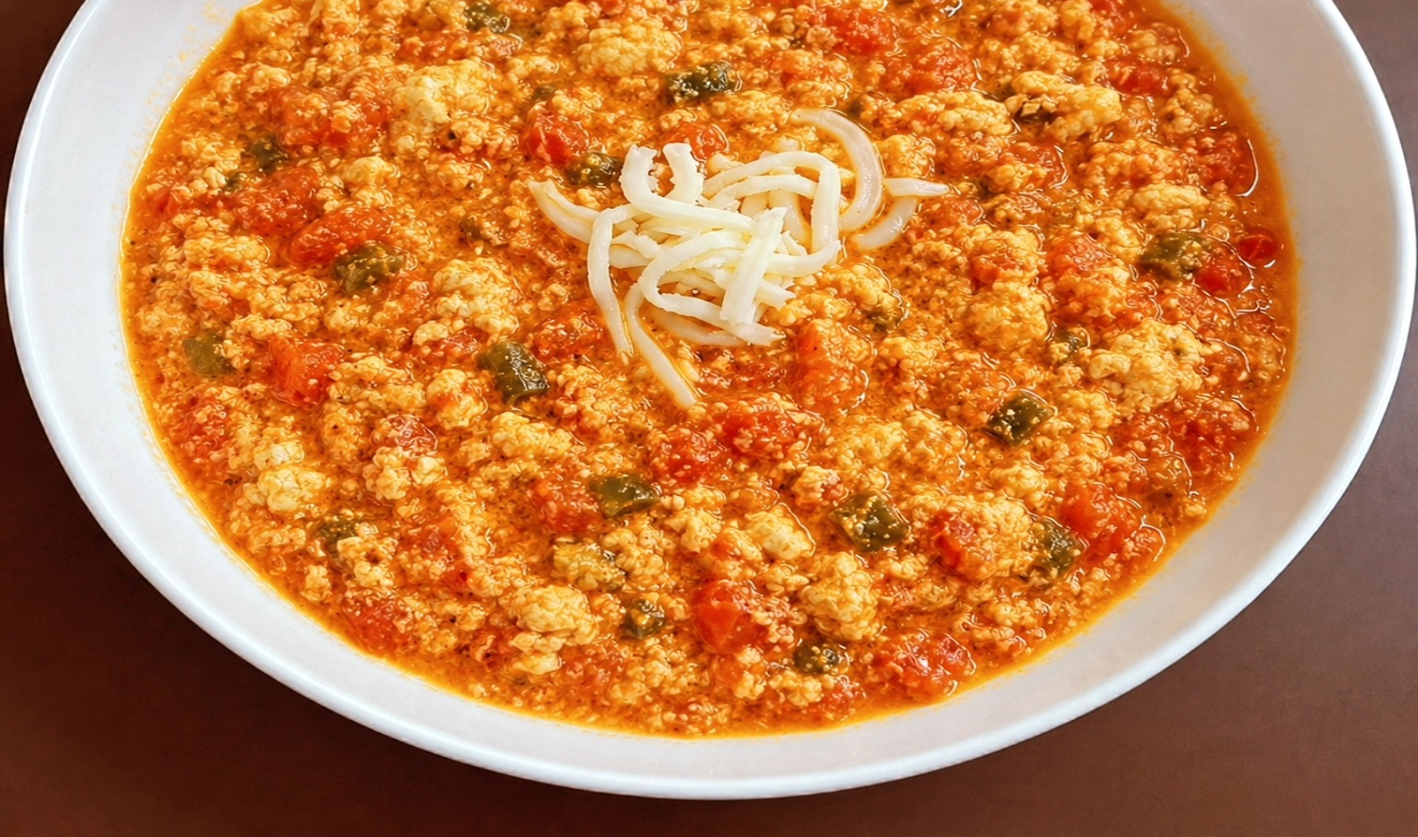
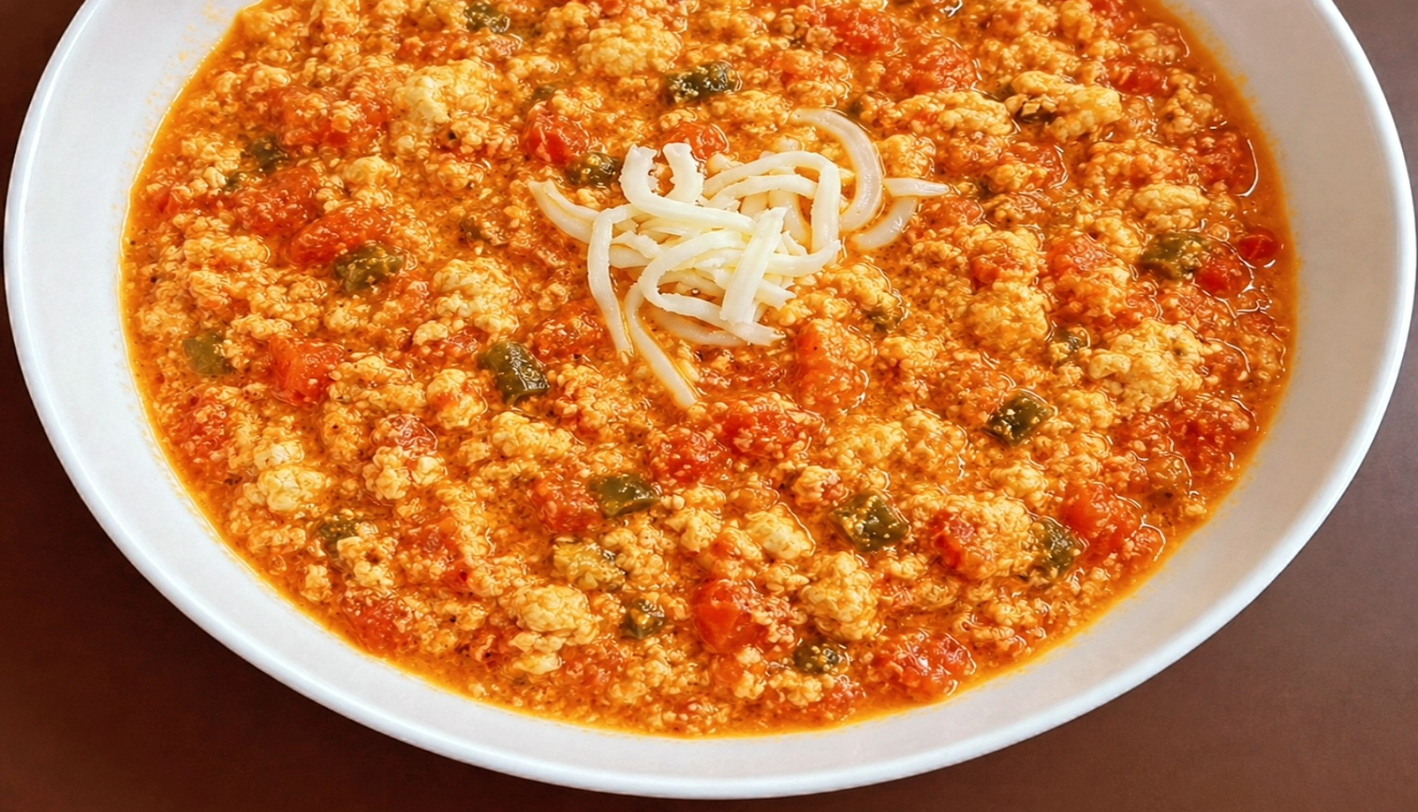
Update instagram feed assets and clean up component code
Replit-Commit-Author: Agent

diff --git a/client/src/components/InstagramFeed.tsx b/client/src/components/InstagramFeed.tsx
@@ -12,13 +12,10 @@ import {
 import imgBaklava from "@assets/Baklava_UberEats_2880x2304_1786544856975.jpg";
 import imgMenemen from "@assets/menemen_clean.jpg";
 import imgWaffles from "@assets/tRIPLE_wAFFLES_1786544970112.jpg";
-import imgBrunch from "@assets/Blueberries_pancakes,_Dear_Benedict,_Croissant_tartine_1786545051997.png";
-
 const instagramPosts = [
   { id: 1, image: imgBaklava, caption: "Fresh pistachio baklava — a Turkish sweet treat! 🇹🇷 #baklava #turkishdessert #themixercafe" },
   { id: 2, image: imgMenemen, caption: "Turkish scrambled eggs done right 🍳🇹🇷 #menemen #turkishbreakfast #themixercafe" },
   { id: 3, image: imgWaffles, caption: "Triple waffle loaded with strawberries, banana & Nutella 🧇🍓 #waffles #brunch #themixercafe" },
-  { id: 4, image: imgBrunch, caption: "Blueberry pancakes, Dear Benedict, Croissant Tartine — pick your favorite! 🥞🍳🥐 #brunch #breakfast #themixercafe" },
 ];
 
 export default function InstagramFeed() {
